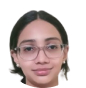
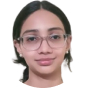
optimization

diff --git a/src/pages/Home/Home.jsx b/src/pages/Home/Home.jsx
@@ -94,13 +94,13 @@ function Home() {
 
   return (
     <div className="home-page">
-      
+
       {/* SECTION 1 — HERO */}
-      <section className="mt-[70px] relative h-[380px] md:h-[55vh] w-full overflow-hidden bg-white">
+      <section className="mt-[70px] relative h-[380px] md:h-[75vh] w-full overflow-hidden bg-white">
         <div className="flex flex-col md:flex-row w-full h-full">
           <div className="hidden md:flex w-full md:w-[45%] h-[250px] md:h-full relative overflow-hidden bg-white items-center justify-center object-cover">
-            <img 
-              alt="Vibrant Academy Logo Banner" 
+            <img
+              alt="Vibrant Academy Logo Banner"
               className="max-w-full max-h-full object-contain"
               src="/vibrant_logo_banner.jpg"
             />
@@ -127,10 +127,10 @@ function Home() {
           </div>
         </div>
       </section>
-{/* SECTION 6 — RESULTS BANNER (TOPPERS STRIP) */}
+      {/* SECTION 6 — RESULTS BANNER (TOPPERS STRIP) */}
       <section className="py-stack_xl bg-white border-t border-brand-navy/5">
         <div className="max-w-container_max_width mx-auto px-margin_mobile md:px-gutter">
-          
+
           <div className="text-center max-w-2xl mx-auto mb-16">
             <p className="text-brand-teal font-extrabold uppercase tracking-widest text-xs mb-3">Our Toppers</p>
             <h2 className="text-3xl md:text-4xl font-extrabold text-brand-navy mb-2 tracking-tight">
@@ -142,15 +142,15 @@ function Home() {
           {/* Toppers Cards */}
           <div className="grid grid-cols-1 md:grid-cols-3 gap-8">
             {toppers.slice(0, 3).map((topper) => (
-              <div 
+              <div
                 key={topper.id}
                 className="bg-white rounded-xl p-8 border-t-[3px] border-brand-yellow shadow-md flex flex-col items-center text-center hover:translate-y-[-4px] transition-all"
                 data-aos="zoom-in"
               >
                 <div className="relative w-20 h-20 mb-4">
-                  <img 
-                    alt={topper.name} 
-                    className="w-full h-full object-cover rounded-full border-2 border-brand-yellow p-1" 
+                  <img
+                    alt={topper.name}
+                    className="w-full h-full object-cover rounded-full border-2 border-brand-yellow p-1"
                     src={topper.photo}
                   />
                 </div>
@@ -183,7 +183,7 @@ function Home() {
               </div>
               <div>
                 <p className="text-[10px] font-bold text-brand-navy/50 uppercase tracking-widest mb-0.5">ESTABLISHED</p>
-                <p className="text-xl font-bold text-brand-navy">Since 2010</p>
+                <p className="text-xl font-bold text-brand-navy">Since 2002</p>
               </div>
             </div>
             <div className="py-8 md:py-10 flex items-center gap-4 group hover:bg-brand-purple/5 transition-colors px-4 justify-center md:justify-start">
@@ -192,7 +192,7 @@ function Home() {
               </div>
               <div>
                 <p className="text-[10px] font-bold text-brand-navy/50 uppercase tracking-widest mb-0.5">EXPERT MENTORS</p>
-                <p className="text-xl font-bold text-brand-navy">15+ Teachers</p>
+                <p className="text-xl font-bold text-brand-navy">25+ Teachers</p>
               </div>
             </div>
             <div className="py-8 md:py-10 flex items-center gap-4 group hover:bg-brand-purple/5 transition-colors px-4 justify-center md:justify-start">
@@ -201,7 +201,7 @@ function Home() {
               </div>
               <div>
                 <p className="text-[10px] font-bold text-brand-navy/50 uppercase tracking-widest mb-0.5">STUDENTS TAUGHT</p>
-                <p className="text-xl font-bold text-brand-navy">500+ Grads</p>
+                <p className="text-xl font-bold text-brand-navy">1000+</p>
               </div>
             </div>
             <div className="py-8 md:py-10 flex items-center gap-4 group hover:bg-brand-purple/5 transition-colors px-4 justify-center md:justify-start">
@@ -210,7 +210,7 @@ function Home() {
               </div>
               <div>
                 <p className="text-[10px] font-bold text-brand-navy/50 uppercase tracking-widest mb-0.5">PASS RATE</p>
-                <p className="text-xl font-bold text-brand-navy">95% Success</p>
+                <p className="text-xl font-bold text-brand-navy">100% Success</p>
               </div>
             </div>
           </div>
@@ -234,10 +234,10 @@ function Home() {
           {/* Offerings Grid */}
           <div className="grid grid-cols-1 md:grid-cols-3 gap-8">
             {courses.map((course, idx) => (
-              <div 
-                key={idx} 
+              <div
+                key={idx}
                 className="bg-white rounded-xl p-8 border border-brand-navy/5 shadow-md hover:translate-y-[-6px] hover:shadow-xl transition-all duration-300 flex flex-col justify-between"
-                data-aos="fade-up" 
+                data-aos="fade-up"
                 data-aos-delay={idx * 100}
               >
                 <div>
@@ -383,9 +383,9 @@ function Home() {
             </div>
             <div className="w-full lg:w-1/2 relative" data-aos="fade-left">
               <div className="rounded-2xl overflow-hidden shadow-2xl">
-                <img 
-                  alt="High School Study Environment" 
-                  className="w-full h-[350px] md:h-[450px] object-cover" 
+                <img
+                  alt="High School Study Environment"
+                  className="w-full h-[350px] md:h-[450px] object-cover"
                   src="https://images.unsplash.com/photo-1522202176988-66273c2fd55f?auto=format&fit=crop&q=80&w=1200"
                 />
               </div>
@@ -461,7 +461,7 @@ function Home() {
       {/* SECTION 7 — TESTIMONIALS */}
       <section className="py-stack_xl bg-[#F5F0F7]">
         <div className="max-w-container_max_width mx-auto px-margin_mobile md:px-gutter">
-          
+
           <div className="text-center max-w-2xl mx-auto mb-16">
             <p className="text-brand-teal font-extrabold uppercase tracking-widest text-xs mb-3">Testimonials</p>
             <h2 className="text-3xl md:text-4xl font-extrabold text-brand-navy mb-2 tracking-tight">
@@ -473,7 +473,7 @@ function Home() {
           {/* Testimonial Cards */}
           <div className="grid grid-cols-1 md:grid-cols-3 gap-8">
             {testimonials.map((test) => (
-              <div 
+              <div
                 key={test.id}
                 className="bg-white rounded-xl p-8 shadow-md flex flex-col justify-between border border-brand-navy/5"
                 data-aos="fade-up"

diff --git a/build/index.html b/build/index.html
@@ -1,1 +1,1 @@
-<!doctype html><html lang="en"><head><meta charset="utf-8"/><link rel="icon" href="/favicon.ico"/><meta name="viewport" content="width=device-width,initial-scale=1"/><meta name="theme-color" content="#7B2D8B"/><meta name="description" content="Vibrant Academy - A boutique educational institution dedicated to crafting academic success stories through personalized mentorship."/><link rel="apple-touch-icon" href="/logo192.png"/><link rel="manifest" href="/manifest.json"/><link href="https://fonts.googleapis.com/css2?family=Poppins:wght@300;400;500;600;700;800&family=Dancing+Script:wght@700&family=Material+Symbols+Outlined:wght,FILL@100..700,0..1&display=swap" rel="stylesheet"/><title>Vibrant Academy - Believe in Excellence...</title><script defer="defer" src="/static/js/main.2714374f.js"></script><link href="/static/css/main.f210b081.css" rel="stylesheet"></head><body><noscript>You need to enable JavaScript to run this app.</noscript><div id="root"></div></body></html>
+<!doctype html><html lang="en"><head><meta charset="utf-8"/><link rel="icon" href="/favicon.ico"/><meta name="viewport" content="width=device-width,initial-scale=1"/><meta name="theme-color" content="#7B2D8B"/><meta name="description" content="Vibrant Academy - A boutique educational institution dedicated to crafting academic success stories through personalized mentorship."/><link rel="apple-touch-icon" href="/logo192.png"/><link rel="manifest" href="/manifest.json"/><link href="https://fonts.googleapis.com/css2?family=Poppins:wght@300;400;500;600;700;800&family=Dancing+Script:wght@700&family=Material+Symbols+Outlined:wght,FILL@100..700,0..1&display=swap" rel="stylesheet"/><title>Vibrant Academy - Believe in Excellence...</title><script defer="defer" src="/static/js/main.3dfe4bc7.js"></script><link href="/static/css/main.6c38799b.css" rel="stylesheet"></head><body><noscript>You need to enable JavaScript to run this app.</noscript><div id="root"></div></body></html>

diff --git a/src/styles/global.css b/src/styles/global.css
@@ -25,6 +25,8 @@
 
 html {
   scroll-behavior: smooth;
+  overflow-x: hidden;
+  max-width: 100%;
 }
 
 body {
@@ -33,6 +35,7 @@ body {
   color: var(--dark-text);
   background: var(--white);
   overflow-x: hidden;
+  max-width: 100%;
 }
 
 h1, h2, h3, h4 {
